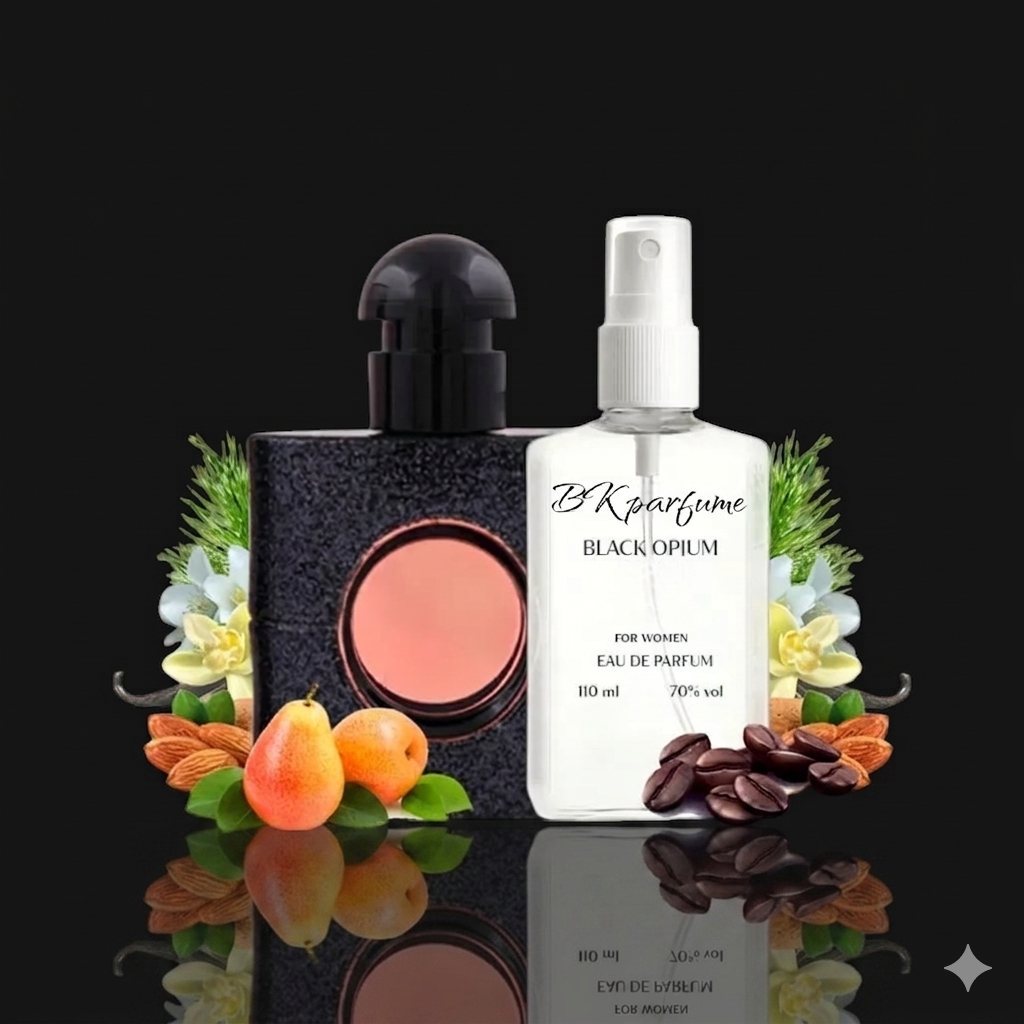
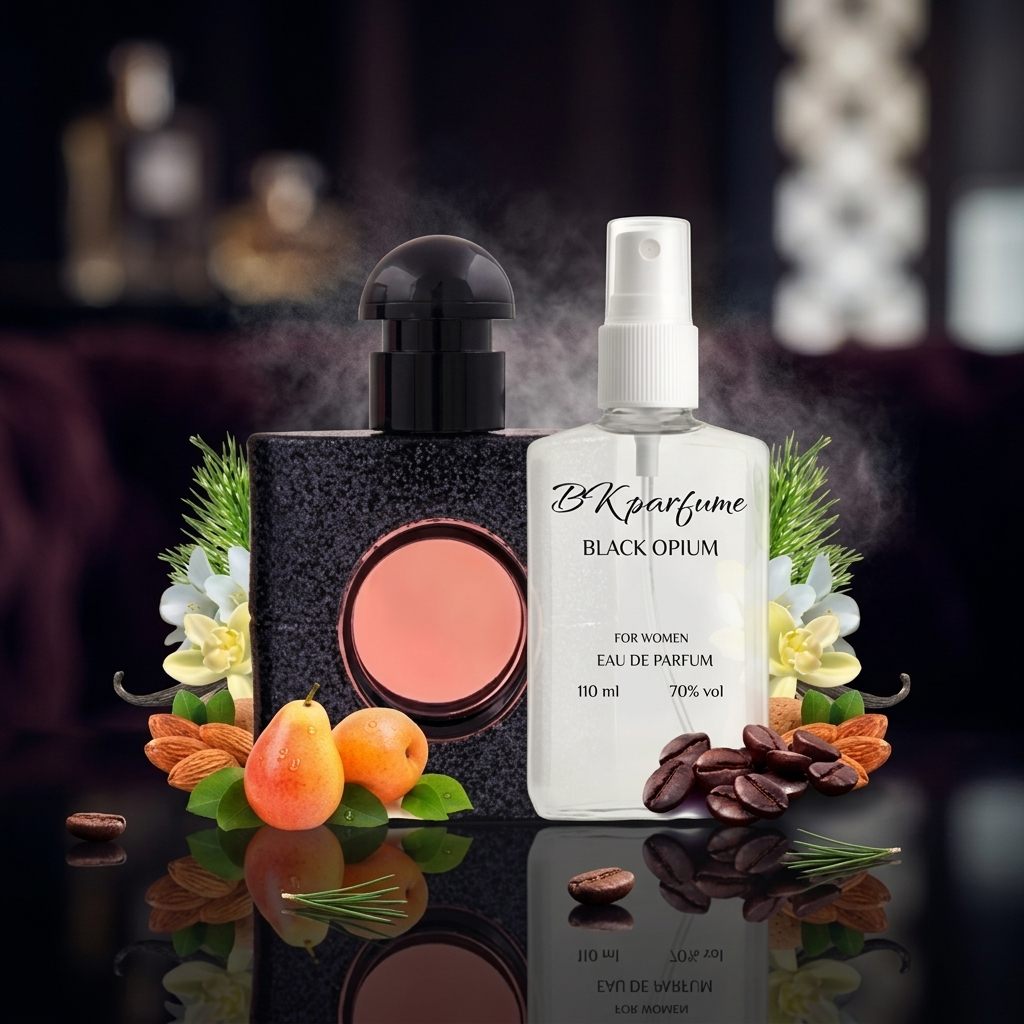
Update product image and removed product redirect

diff --git a/products/avon-incandessence.html b/products/avon-incandessence.html
@@ -1,12 +1,18 @@
-<!DOCTYPE html>
+<!doctype html>
 <html lang="uk">
-<head>
-<meta charset="UTF-8">
-<title>Перенаправлення...</title>
-<link rel="canonical" href="https://bkparfume.site/zhinochi-parfumy.html">
-<meta http-equiv="refresh" content="0; url=https://bkparfume.site/zhinochi-parfumy.html">
-</head>
-<body>
-<p>Цей товар видалено з каталогу. Перехід на <a href="https://bkparfume.site/zhinochi-parfumy.html">жіночі парфуми</a>.</p>
-</body>
+  <head>
+    <meta charset="UTF-8" />
+    <title>Перенаправлення...</title>
+    <link rel="canonical" href="https://bkparfume.site/zhinochi-parfumy.html" />
+    <meta
+      http-equiv="refresh"
+      content="0; url=https://bkparfume.site/zhinochi-parfumy.html"
+    />
+  </head>
+  <body>
+    <p>
+      Цей товар видалено з каталогу. Перехід на
+      <a href="https://bkparfume.site/zhinochi-parfumy.html">жіночі парфуми</a>.
+    </p>
+  </body>
 </html>
